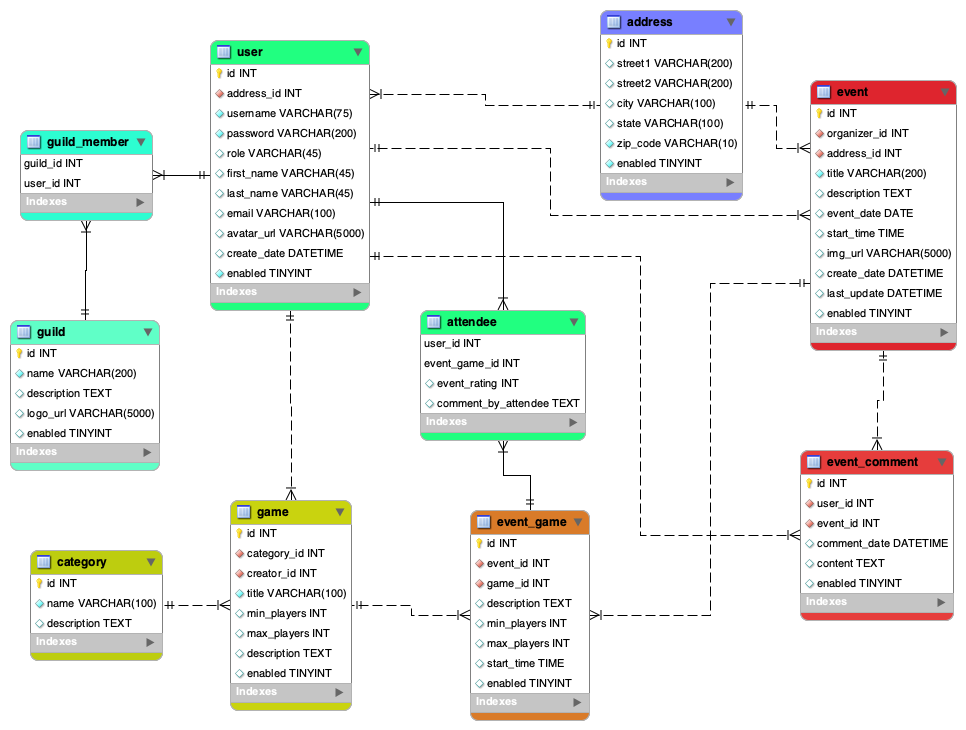
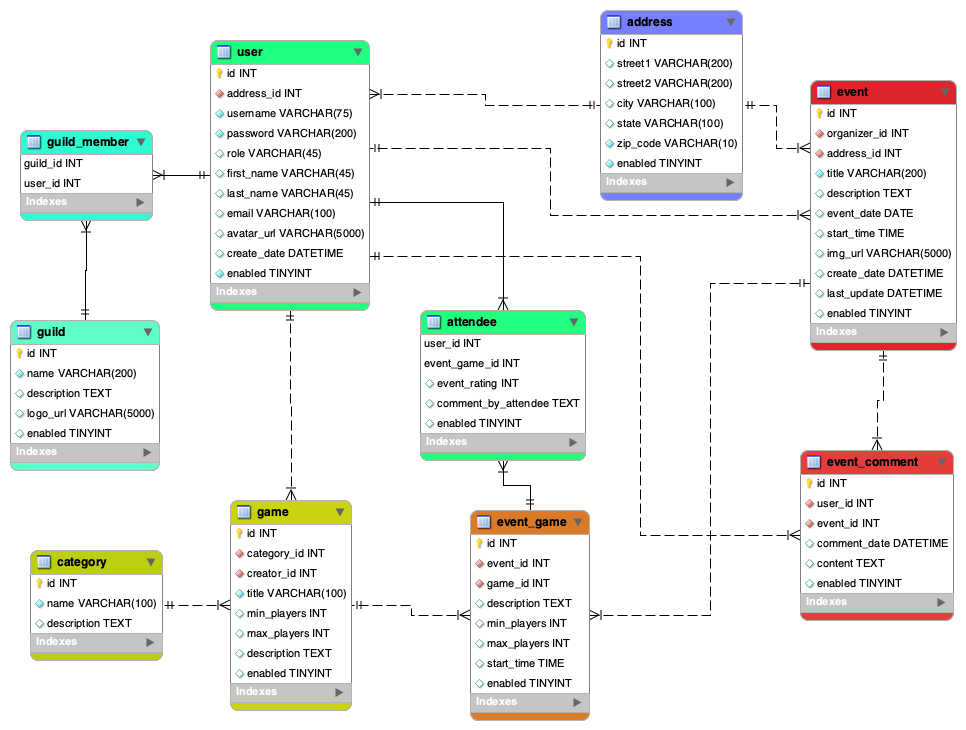
Minor edits to Address/Attendee entities; Completed AttendeeDAO/Impl; Updated schema diagram

Changed region(s): [[0.4348, 0.5425, 0.6211, 0.6329]]

diff --git a/JPAMidterm/src/main/java/com/skilldistillery/roundtablegaming/entities/Attendee.java b/JPAMidterm/src/main/java/com/skilldistillery/roundtablegaming/entities/Attendee.java
@@ -25,17 +25,21 @@ public class Attendee {
 	private Integer eventRating;
 	@Column(name = "comment_by_attendee")
 	private String attendeeComment;
+	private boolean enabled;
 
 //	CONSTRUCTORS
-	public Attendee() {}
+	public Attendee() {
+	}
 
-	public Attendee(User user, AttendeeId id, int eventRating, EventGame eventGame, String attendeeComment) {
+	public Attendee(User user, AttendeeId id, EventGame eventGame, Integer eventRating, String attendeeComment,
+			boolean enabled) {
 		super();
 		this.user = user;
 		this.id = id;
-		this.eventRating = eventRating;
 		this.eventGame = eventGame;
+		this.eventRating = eventRating;
 		this.attendeeComment = attendeeComment;
+		this.enabled = enabled;
 	}
 
 //	GETTERS AND SETTERS
@@ -56,20 +60,20 @@ public class Attendee {
 		this.id = id;
 	}
 
-	public int getEventRating() {
-		return eventRating;
-	}
-
-	public void setEventRating(int eventRating) {
-		this.eventRating = eventRating;
-	}
-
 	public EventGame getEventGame() {
 		return eventGame;
 	}
 
 	public void setEventGame(EventGame eventGame) {
 		this.eventGame = eventGame;
+	}
+
+	public Integer getEventRating() {
+		return eventRating;
+	}
+
+	public void setEventRating(Integer eventRating) {
+		this.eventRating = eventRating;
 	}
 
 	public String getAttendeeComment() {
@@ -80,7 +84,16 @@ public class Attendee {
 		this.attendeeComment = attendeeComment;
 	}
 
+	public boolean isEnabled() {
+		return enabled;
+	}
+
+	public void setEnabled(boolean enabled) {
+		this.enabled = enabled;
+	}
+
 //	 EQUALS AND HASHCODE
+
 	@Override
 	public int hashCode() {
 		final int prime = 31;
@@ -107,6 +120,7 @@ public class Attendee {
 	}
 
 //	 TOSTRING
+
 	@Override
 	public String toString() {
 		StringBuilder builder = new StringBuilder();

diff --git a/RoundTableGaming/src/main/java/com/skilldistillery/roundtablegaming/data/AttendeeDAOImpl.java b/RoundTableGaming/src/main/java/com/skilldistillery/roundtablegaming/data/AttendeeDAOImpl.java
@@ -1,25 +1,56 @@
 package com.skilldistillery.roundtablegaming.data;
 
-import com.skilldistillery.roundtablegaming.entities.Attendee;
+import javax.persistence.EntityManager;
+import javax.persistence.PersistenceContext;
+import javax.transaction.Transactional;
 
+import org.springframework.stereotype.Service;
+
+import com.skilldistillery.roundtablegaming.entities.Attendee;
+import com.skilldistillery.roundtablegaming.entities.AttendeeId;
+
+@Service
+@Transactional
 public class AttendeeDAOImpl implements AttendeeDAO {
 
+	@PersistenceContext
+	private EntityManager em;
+	
 	@Override
 	public Attendee create(Attendee attn) {
-		// TODO Auto-generated method stub
-		return null;
+		em.persist(attn);
+		em.flush();
+		return attn;
 	}
 
 	@Override
-	public Attendee update(Attendee attn) {
-		// TODO Auto-generated method stub
-		return null;
+	public Attendee update(Attendee attn, AttendeeId id) {
+		Attendee updated = em.find(Attendee.class, id);
+		updated.setUser(attn.getUser());
+		updated.setEventGame(attn.getEventGame());
+		updated.setEventRating(attn.getEventRating());
+		updated.setAttendeeComment(attn.getAttendeeComment());
+		em.persist(updated);
+		em.flush();
+		return updated;
 	}
 
 	@Override
-	public Attendee delete(Attendee attn) {
-		// TODO Auto-generated method stub
-		return null;
+	public Attendee enable(AttendeeId id) {
+		Attendee enabled = em.find(Attendee.class, id);
+		enabled.setEnabled(true);
+		em.persist(enabled);
+		em.flush();
+		return enabled;
+	}
+
+	@Override
+	public Attendee disable(AttendeeId id) {
+		Attendee disabled = em.find(Attendee.class, id);
+		disabled.setEnabled(false);
+		em.persist(disabled);
+		em.flush();
+		return disabled;
 	}
 
 }

diff --git a/JPAMidterm/src/main/java/com/skilldistillery/roundtablegaming/entities/Address.java b/JPAMidterm/src/main/java/com/skilldistillery/roundtablegaming/entities/Address.java
@@ -28,10 +28,11 @@ public class Address {
 	@OneToMany(mappedBy = "address", cascade = CascadeType.PERSIST)
 	private List<User> users;
 
-	public Address() {}
+	public Address() {
+	}
 
-	public Address(int id, String street1, String street2, String city, String state, String zipCode,
-			boolean enabled, List<Event> events, List<User> users) {
+	public Address(int id, String street1, String street2, String city, String state, String zipCode, boolean enabled,
+			List<Event> events, List<User> users) {
 		super();
 		this.id = id;
 		this.street1 = street1;
@@ -115,7 +116,7 @@ public class Address {
 	public void setUsers(List<User> users) {
 		this.users = users;
 	}
-	
+
 	public void addEvent(Event event) {
 		if (events == null) {
 			events = new ArrayList<>();
@@ -128,7 +129,7 @@ public class Address {
 			event.setAddress(this);
 		}
 	}
-	
+
 	public void removeEvent(Event event) {
 		event.setAddress(null);
 		if (events != null) {
@@ -148,7 +149,7 @@ public class Address {
 			user.setAddress(this);
 		}
 	}
-	
+
 	public void removeUser(User user) {
 		user.setAddress(null);
 		if (users != null) {

diff --git a/RoundTableGaming/src/main/java/com/skilldistillery/roundtablegaming/data/AttendeeDAO.java b/RoundTableGaming/src/main/java/com/skilldistillery/roundtablegaming/data/AttendeeDAO.java
@@ -1,10 +1,12 @@
 package com.skilldistillery.roundtablegaming.data;
 
 import com.skilldistillery.roundtablegaming.entities.Attendee;
+import com.skilldistillery.roundtablegaming.entities.AttendeeId;
 
 public interface AttendeeDAO {
 
 	public Attendee create(Attendee attn);
-	public Attendee update(Attendee attn);
-	public Attendee delete(Attendee attn);
+	public Attendee update(Attendee attn, AttendeeId id);
+	public Attendee enable(AttendeeId id);
+	public Attendee disable(AttendeeId id);
 }
